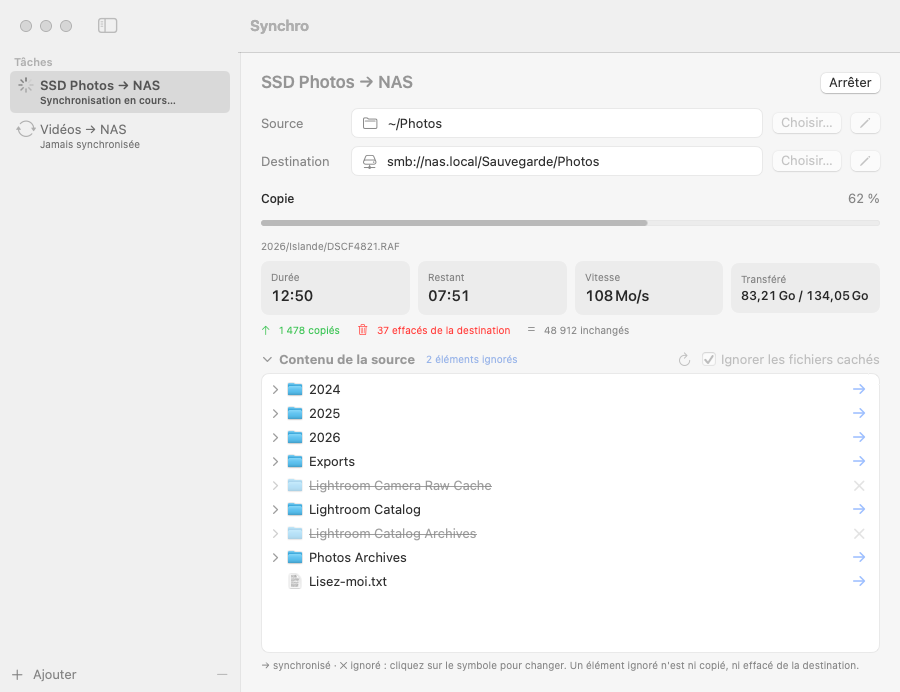
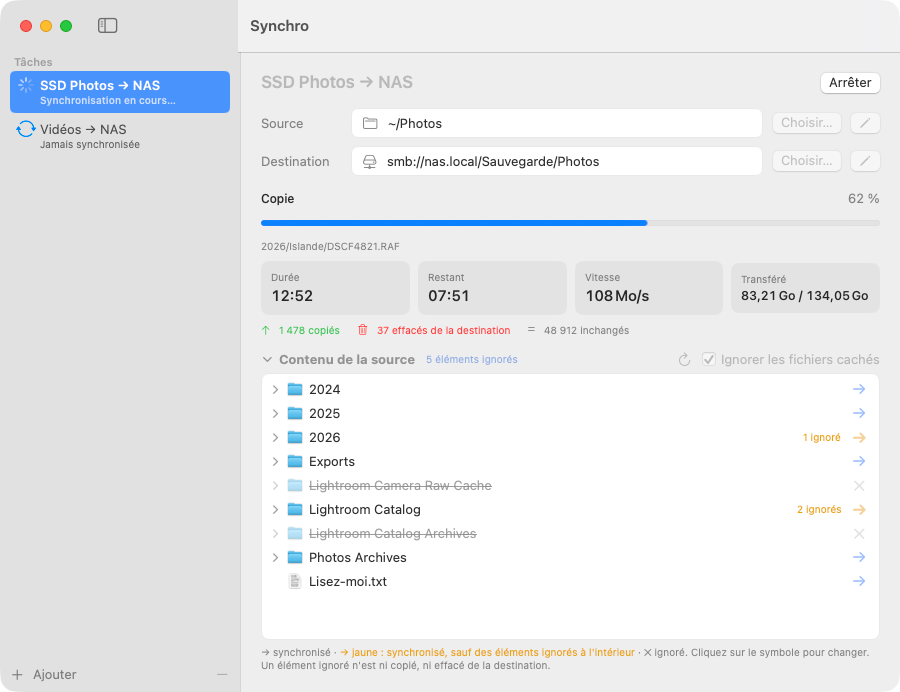
Flèche jaune pour un dossier synchronisé qui contient des éléments ignorés
Avec le nombre d'éléments ignorés à l'intérieur, et la légende sous la liste.

diff --git a/Sources/Synchro/Views.swift b/Sources/Synchro/Views.swift
@@ -231,8 +231,14 @@ struct PresetDetail: View {
                 if !model.treeCollapsed {
                     SourceTree(preset: $preset)
                         .id(preset.source + "|\(preset.ignoreHidden)")
-                    Text("→ synchronisé · ✕ ignoré : cliquez sur le symbole pour changer. Un élément ignoré n'est ni copié, ni effacé de la destination.")
+                    (Text("→ synchronisé · ")
+                     + Text("→ jaune : synchronisé, sauf des éléments ignorés à l'intérieur").foregroundColor(TreeRow.partialColor)
+                     + Text(" · ✕ ignoré. Cliquez sur le symbole pour changer. Un élément ignoré n'est ni copié, ni effacé de la destination."))
                         .font(.caption).foregroundStyle(.secondary)
+                        // Deux lignes au plus, servies avant la liste. Surtout pas de fixedSize ici : la hauteur
+                        // minimale de la fenêtre se calculerait sur un texte replié à l'extrême, et tout déborderait.
+                        .lineLimit(2)
+                        .layoutPriority(1)
                 }
             }
             .disabled(locked)
@@ -967,6 +973,31 @@ struct TreeRow: View {
     private var excluded: Bool { preset.excludes.contains { Scanner.excludeKey($0) == key } }
     private var ignored: Bool { inherited || excluded }
 
+    /// Nombre d'éléments ignorés à l'intérieur de ce dossier, quand lui-même est synchronisé.
+    private var exceptions: Int {
+        guard item.isDir, !ignored else { return 0 }
+        let prefix = key + "/"
+        return preset.excludes.filter { Scanner.excludeKey($0).hasPrefix(prefix) }.count
+    }
+
+    /// Flèche bleue : tout est synchronisé. Flèche jaune : synchronisé, sauf des exceptions à l'intérieur.
+    private var tint: Color {
+        if ignored { return .secondary }
+        return exceptions > 0 ? TreeRow.partialColor : .accentColor
+    }
+
+    /// Jaune doré : le jaune pur du système se lit mal sur fond clair.
+    static let partialColor = Color(red: 0.92, green: 0.64, blue: 0.0)
+
+    private var hint: String {
+        if inherited { return "Ignoré par un dossier parent" }
+        if excluded { return "Ignoré — cliquer pour synchroniser" }
+        if exceptions > 0 {
+            return "Synchronisé, sauf \(Fmt.count(exceptions, "élément ignoré", "éléments ignorés")) à l'intérieur — cliquer pour ignorer tout le dossier"
+        }
+        return "Synchronisé — cliquer pour ignorer"
+    }
+
     var body: some View {
         VStack(alignment: .leading, spacing: 0) {
             HStack(spacing: 6) {
@@ -985,17 +1016,20 @@ struct TreeRow: View {
                     .accessibilityHidden(true)
                 Text(item.name).lineLimit(1).truncationMode(.middle).strikethrough(ignored)
                 Spacer()
+                if exceptions > 0 {
+                    Text(Fmt.count(exceptions, "ignoré", "ignorés")).font(.caption).foregroundStyle(TreeRow.partialColor)
+                }
                 Button(action: toggle) {
                     Image(systemName: ignored ? "xmark" : "arrow.right")
-                        .fontWeight(.semibold)
-                        .foregroundStyle(ignored ? Color.secondary : Color.accentColor)
+                        .fontWeight(exceptions > 0 ? .heavy : .semibold)
+                        .foregroundStyle(tint)
                         .frame(width: 22, height: 18)
                 }
                 .buttonStyle(.plain)
                 .disabled(inherited)
-                .help(inherited ? "Ignoré par un dossier parent" : (excluded ? "Ignoré — cliquer pour synchroniser" : "Synchronisé — cliquer pour ignorer"))
+                .help(hint)
                 .accessibilityLabel(item.name)
-                .accessibilityValue(ignored ? "ignoré" : "synchronisé")
+                .accessibilityValue(ignored ? "ignoré" : (exceptions > 0 ? "synchronisé, avec des éléments ignorés à l'intérieur" : "synchronisé"))
                 .accessibilityHint(inherited ? "Ignoré par un dossier parent" : "Bascule entre synchronisé et ignoré")
             }
             .opacity(ignored ? 0.5 : 1)

diff --git a/README.md b/README.md
@@ -15,7 +15,7 @@ Application macOS native (SwiftUI) qui fait un **miroir** d'un dossier ou d'un d
 - **Tâches** : chaque tâche garde sa source, sa destination et ses éléments ignorés. Ajoutez-en autant que voulu. Au premier lancement, une tâche d'exemple est proposée : remplacez sa source et sa destination par les vôtres.
 - **Aperçu avant d'agir** : Synchro analyse d'abord, puis liste ce qui sera effacé (par dossier, avec le nombre de fichiers et la taille) et ce qui sera copié. Rien n'est modifié sans confirmation.
 - **Suivi en direct** : étape en cours, durée, temps restant, vitesse de transfert, volume transféré, nombre de fichiers copiés, effacés, inchangés et en échec.
-- **Éléments ignorés** : dans l'arborescence de la source, cliquez sur la flèche → d'un dossier ou d'un fichier pour la changer en ✕. Un élément ignoré n'est ni copié, ni effacé de la destination, même si son dossier parent disparaît de la source. Le lien « N éléments ignorés » en donne la liste complète.
+- **Éléments ignorés** : dans l'arborescence de la source, cliquez sur la flèche → d'un dossier ou d'un fichier pour la changer en ✕. Un élément ignoré n'est ni copié, ni effacé de la destination, même si son dossier parent disparaît de la source. Un dossier qui reste synchronisé mais contient des éléments ignorés porte une flèche jaune et leur nombre. Le lien « N éléments ignorés » en donne la liste complète.
 - **Fichiers cachés** ignorés (désactivable par tâche). Les fichiers système (`.DS_Store`, `.Spotlight-V100`, `.Trashes`, `._*`…) ne sont jamais copiés.
 - **Destination SMB** : `smb://serveur/partage/dossier`. Le partage est connecté au besoin ; le mot de passe vient du Trousseau macOS et n'est jamais stocké par l'app.
 - **Glisser-déposer** d'un dossier ou d'un alias sur les lignes Source et Destination.
